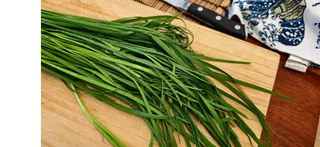
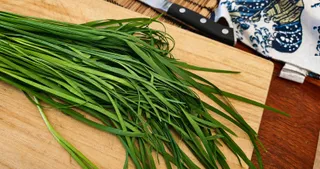
feat(ricette): gyoza con cavolo cappuccio e nira, foto nira ritagliata
Ripieno con 300g di cavolo cappuccio e 60g di nira (linkato alla
pagina ingrediente), tip su cavolo cinese e cipolline come
alternative, resa indicativa di circa 40 gyoza. Foto del nira
ritagliata senza bande bianche, varianti rigenerate.

diff --git a/src/data/recipe-data.ts b/src/data/recipe-data.ts
@@ -2065,7 +2065,7 @@ export const RECIPE_DATA: Record<string, RecipeData> = {
     "image": "/img/ricette/gyoza1.jpg",
     "recipeCategory": "Griglia",
     "recipeKeywords": [
-      "negi",
+      "nira",
       "sake",
       "sesame_oil",
       "sesamo",
@@ -2074,18 +2074,18 @@ export const RECIPE_DATA: Record<string, RecipeData> = {
     "recipeYield": null,
     "recipeIngredient": [
       "250g di carne di maiale macinata, preferite un taglio grasso come il collo.",
-      "500g di cavolo cinese",
+      "300g di cavolo cappuccio",
       "2 spicchi d'aglio",
       "1 cucchiaio di zenzero fresco grattugiato",
       "1 pizzico di sale",
       "pepe nero macinato a piacere",
-      "2 cipolline verdi/negi",
+      "60g di nira (erba aglina, circa mezzo mazzo abbondante)",
       "2 funghi shiitake (opzionali)",
       "2 cucchiai di olio di sesamo",
       "2 cucchiai di salsa di soia",
       "2 cucchiai di sake"
     ],
-    "instructionsText": "Tritare finemente il cavolo e metterlo in una ciotola con un cucchiaio di sale. Lasciar riposare per 10 minuti, poi sciacquate e strizzare bene il cavolo per eliminare l'acqua in eccesso. Mentre il cavolo sta li per conto suo a perdere acqua, tritare finemente l'aglio, lo zenzero e le cipolline verdi. Mettere tutto in una ciotola con la carne di maiale e gli altri ingredienti e mescolare finché non si rompono le proteine della carne e il composto diventa omogeneo e quasi colloso. Con un cucchiaino, prendere un po' di ripieno e metterlo al centro di una sfoglia di pasta per gyoza. Bagnare i bordi con un po' d'acqua e chiudere a mezzaluna, facendo delle pieghe a ventaglio. Siccome faccio pena a chiudere i gyoza, vi linko un video di come si chiudono i gyoza: link Mettete i gyoza chiusi su un foglio di carta da forno, cosparso leggermente con della fecola di patate, o amido di mais. Questo non solo evita che i gyoza si attacchino al foglio, ma l'amido, sciogliendosi nell'acqua in cottura, fara' una splendida crosticina dorata. Piu' o meno il risultato e' questo (notare quello in basso a sinistra, detto anche Gyozimodo): !Gyoza",
+    "instructionsText": "Tritare finemente il cavolo e metterlo in una ciotola con un cucchiaio di sale. Lasciar riposare per 10 minuti, poi sciacquate e strizzare bene il cavolo per eliminare l'acqua in eccesso. Mentre il cavolo sta li per conto suo a perdere acqua, tritare finemente l'aglio, lo zenzero e il nira (il nira non va salato: ha poca acqua e si aggiunge direttamente al ripieno). Mettere tutto in una ciotola con la carne di maiale e gli altri ingredienti e mescolare finché non si rompono le proteine della carne e il composto diventa omogeneo e quasi colloso. Con un cucchiaino, prendere un po' di ripieno e metterlo al centro di una sfoglia di pasta per gyoza. Bagnare i bordi con un po' d'acqua e chiudere a mezzaluna, facendo delle pieghe a ventaglio. Siccome faccio pena a chiudere i gyoza, vi linko un video di come si chiudono i gyoza: link Mettete i gyoza chiusi su un foglio di carta da forno, cosparso leggermente con della fecola di patate, o amido di mais. Questo non solo evita che i gyoza si attacchino al foglio, ma l'amido, sciogliendosi nell'acqua in cottura, fara' una splendida crosticina dorata. Piu' o meno il risultato e' questo (notare quello in basso a sinistra, detto anche Gyozimodo): !Gyoza",
     "videoIds": [],
     "datePublished": "2024-05-07T17:16:28+02:00"
   },

diff --git a/src/data/ingredient-recipes.ts b/src/data/ingredient-recipes.ts
@@ -1017,12 +1017,6 @@ export const INGREDIENT_RECIPE_INDEX = {
       "permalink": "/ricette/takenoko_to_aburaage_no_takikomi_gohan"
     },
     {
-      "id": "ricette/yakimono/gyoza",
-      "title": "Gyoza: ricetta dei ravioli giapponesi alla piastra",
-      "description": "Ricetta dei gyoza, i ravioli giapponesi alla piastra: ripieno, piegatura e cottura, anche con la pasta per gyoza già pronta dei negozi etnici.",
-      "permalink": "/ricette/gyoza"
-    },
-    {
       "id": "ricette/yakimono/negi_shio_remon_chikin",
       "title": "Negi Shio Remon Chikin",
       "description": "Una ricetta estiva semplice e deliziosa per preparare un pollo croccante in padella, guarnito con una fresca salsa di cipollotto e limone.",
@@ -2105,6 +2099,12 @@ export const INGREDIENT_RECIPE_INDEX = {
       "title": "Nira shio kombu no maze onigiri",
       "description": "Un onigiri ricco di umami, preparato mescolando il riso caldo con erba aglina, shio kombu, katsuobushi e olio di sesamo.",
       "permalink": "/ricette/nira-shio-kombu-maze-onigiri"
+    },
+    {
+      "id": "ricette/yakimono/gyoza",
+      "title": "Gyoza: ricetta dei ravioli giapponesi alla piastra",
+      "description": "Ricetta dei gyoza, i ravioli giapponesi alla piastra: ripieno, piegatura e cottura, anche con la pasta per gyoza già pronta dei negozi etnici.",
+      "permalink": "/ricette/gyoza"
     }
   ],
   "sakura ebi": [

diff --git a/docs/ricette/yakimono/gyoza.md b/docs/ricette/yakimono/gyoza.md
@@ -9,8 +9,8 @@ image: /img/ricette/gyoza1.jpg
 ingredients:
 - aglio
 - carne di maiale
-- cavolo cinese
-- cipolline verdi/negi
+- cavolo cappuccio
+- nira
 - funghi shiitake
 - olio di sesamo
 - pepe nero
@@ -19,7 +19,7 @@ ingredients:
 - salsa di soia
 - zenzero
 tags:
-- negi
+- nira
 - sake
 - sesame_oil
 - sesamo
@@ -33,17 +33,27 @@ Potete fare la pasta in casa, ma è molto più semplice usare la pasta per gyoza
 
 ## Ingredienti
 
+Con queste dosi vengono circa 40 gyoza. La resa è indicativa: dipende dalla grandezza delle sfoglie e da quanto ripieno mettete in ognuno.
+
 - 250g di carne di maiale macinata, preferite un taglio grasso come il collo.
-- 500g di cavolo cinese
+- 300g di cavolo cappuccio
 - 2 spicchi d'aglio
 - 1 cucchiaio di zenzero fresco grattugiato
 - 1 pizzico di sale
 - pepe nero macinato a piacere
-- 2 cipolline verdi/negi
+- 60g di [nira](/ingredienti/nira) (erba aglina, circa mezzo mazzo abbondante)
 - 2 funghi shiitake (opzionali)
 - 2 cucchiai di olio di sesamo
 - 2 cucchiai di [salsa di soia](/ingredienti/shoyu)
 - 2 cucchiai di [sake](/ingredienti/sake)
+
+:::tip
+Al posto del cavolo cappuccio si può usare il cavolo cinese (hakusai), ma il cappuccio è più facile da trovare. Attenzione però: il cavolo cinese contiene molta più acqua, quindi va salato e strizzato con ancora più cura, altrimenti il ripieno rischia di venire più morbido e con una consistenza un po' diversa.
+:::
+
+:::tip
+Il [nira](/ingredienti/nira) si può sostituire con le cipolline verdi, ma tradizionalmente i gyoza giapponesi si fanno con il nira: è lui a dare al ripieno quel profumo leggermente agliato che li rende inconfondibili.
+:::
 
 ### Per la Salsa
 - 1 parte di [salsa di soia](/ingredienti/shoyu)
@@ -53,7 +63,7 @@ Potete fare la pasta in casa, ma è molto più semplice usare la pasta per gyoza
 ## Preparazione
 
 Tritare finemente il cavolo e metterlo in una ciotola con un cucchiaio di sale. Lasciar riposare per 10 minuti, poi sciacquate e strizzare bene il cavolo per eliminare l'acqua in eccesso.
-Mentre il cavolo sta li per conto suo a perdere acqua, tritare finemente l'aglio, lo zenzero e le cipolline verdi. Mettere tutto in una ciotola con la carne di maiale e gli altri ingredienti e mescolare
+Mentre il cavolo sta li per conto suo a perdere acqua, tritare finemente l'aglio, lo zenzero e il nira (il nira non va salato: ha poca acqua e si aggiunge direttamente al ripieno). Mettere tutto in una ciotola con la carne di maiale e gli altri ingredienti e mescolare
 finché non si rompono le proteine della carne e il composto diventa omogeneo e quasi colloso.
 
 Con un cucchiaino, prendere un po' di ripieno e metterlo al centro di una sfoglia di pasta per gyoza. Bagnare i bordi con un po' d'acqua e chiudere a mezzaluna, facendo delle pieghe a ventaglio.
